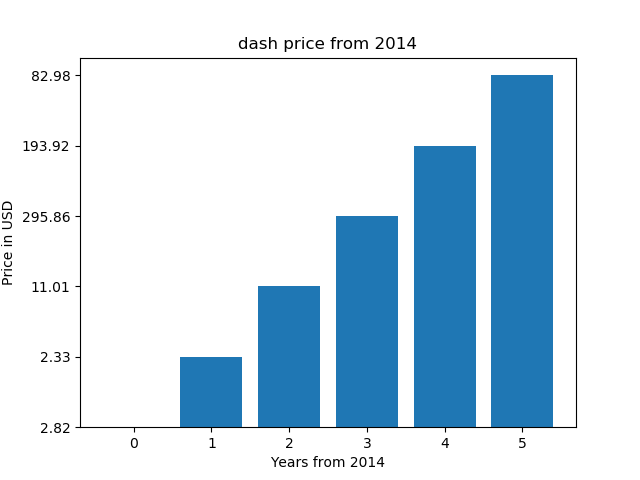
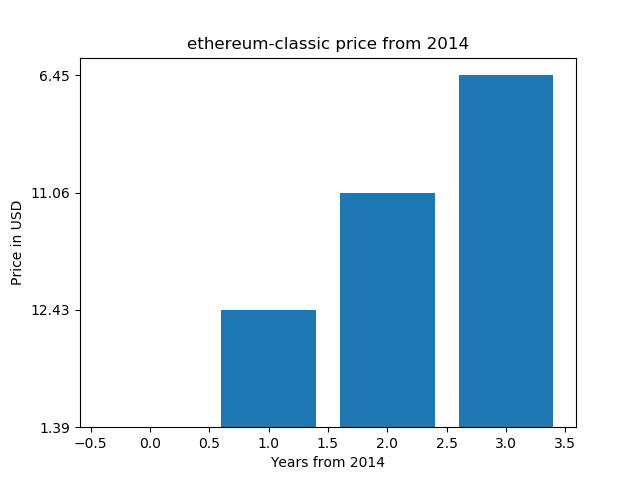
first commit

diff --git a/example.py b/example.py
@@ -10,7 +10,7 @@ from time import gmtime, strftime
 import matplotlib.pyplot as plt
 
 enddate = strftime("%Y%m%d", gmtime())
-r  = requests.get("https://coinmarketcap.com/currencies/dash/historical-data/?start=20140101&end={0}".format(enddate))
+r  = requests.get("https://coinmarketcap.com/currencies/ethereum-classic/historical-data/?start=20140101&end={0}".format(enddate))
 data = r.text
 
 soup = BeautifulSoup(data, "html.parser")
@@ -37,7 +37,7 @@ print(prices)
 
 x = list(range(0, len(prices)))
 
-plt.title('dash price from 2014')
+plt.title('ethereum-classic price from 2014')
 plt.ylabel('Price in USD')
 plt.xlabel('Years from 2014')
 plt.bar(x, prices)

diff --git a/README.md b/README.md
@@ -1,6 +1,6 @@
-# dash price chart 
+# ethereum-classic price chart 
 
-dash price chart (matplotlib, python)
+ethereum-classic price chart (matplotlib, python)
 
 https://pythonprogramminglanguage.com
 
